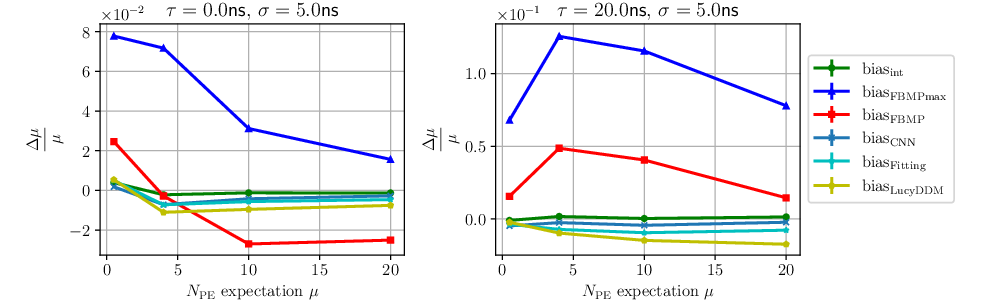
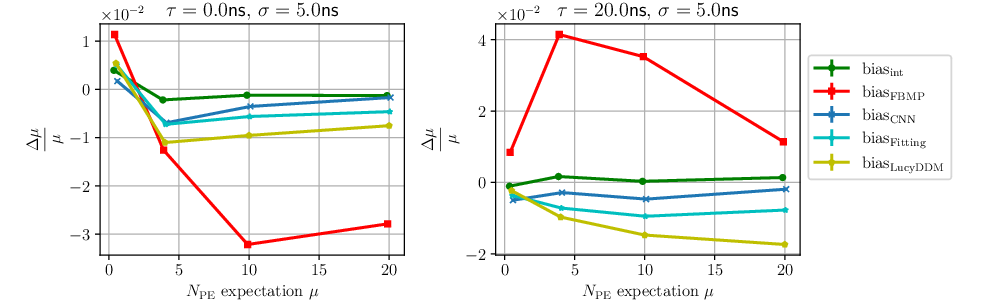
Add several updated test in note

diff --git a/note/main.tex b/note/main.tex
@@ -535,6 +535,92 @@ Result: there is \textbf{no} bias on this configuration
     \includegraphics[width=0.5\textwidth]{toybias.png}
 \end{figure}
 
+\subsection{$N_{PE}$ ergodic estimation based on toy simulation}
+
+\begin{lstlisting}
+spemode = 'spe'
+# spemode = 'delta'
+# spemode = 'flat'
+prior = False
+plot = False
+
+n = 500
+gmu = 160.
+gsigma = gmu / 4
+window = 200
+npe = 3
+assert window > npe
+
+def spe(t, mode='spe'):
+    if mode == 'spe':
+        return wff.spe((t + np.abs(t)) / 2, p[0], p[1], p[2])
+    elif mode == 'delta':
+        return np.where(t == 0, gmu, 0)
+    elif mode == 'flat':
+        return np.ones_like(t) / window * gmu
+
+noi = True
+if noi:
+    std = 1
+else:
+    std = 1e-4
+np.random.seed(0)
+wdtp = np.dtype([('No', np.uint32), ('Waveform', np.float, window)])
+waves = np.empty(n).astype(wdtp)
+
+tlist = np.arange(npe)
+
+p = spe_pre[0]['parameters']
+sams = [np.vstack((tlist, wff.charge(npe, gmu=gmu, gsigma=gsigma, thres=0))).T for i in range(n)]
+pan = np.arange(window)
+for i in tqdm(range(n)):
+#     wave = np.sum([np.where(pan >= sams[i][j, 0], spe(pan - sams[i][j, 0], mode=spemode) * sams[i][j, 1] / gmu, 0) for j in range(len(sams[i]))], axis=0)
+    wave = np.sum([spe(pan - sams[i][j, 0], mode=spemode) * sams[i][j, 1] / gmu for j in range(len(sams[i]))], axis=0)
+    if noi:
+        wave = wave + np.random.normal(0, std, size=window)
+    waves[i]['Waveform'] = wave
+waves['No'] = np.arange(n).astype(np.uint32)
+sdtp = np.dtype([('No', np.uint32), ('HitPosInWindow', np.float64), ('Charge', np.float64)])
+pelist = np.empty(sum([len(sams[i]) for i in range(n)])).astype(sdtp)
+pelist['No'] = np.repeat(np.arange(n), [len(sams[i]) for i in range(n)]).astype(np.uint32)
+pelist['HitPosInWindow'] = np.hstack([sams[i][:, 0] for i in range(n)])
+pelist['Charge'] = np.hstack([sams[i][:, 1] for i in range(n)])
+
+# npe = 3
+aver_npe = np.empty(n)
+for i in tqdm(range(n)):
+    wave = waves[i]['Waveform'].astype(np.float64)[:window] * spe_pre[0]['epulse']
+    truth = pelist[pelist['No'] == waves[i]['No']]
+    tlist = np.unique(truth['HitPosInWindow'])
+
+    t_auto = np.arange(window)[:, None] - tlist
+    A = spe(t_auto, spemode)
+    mu_t = npe
+    factor = np.sqrt(np.diag(np.matmul(A.T, A)))
+    A = A / factor
+    la = mu_t * np.ones_like(tlist) / len(tlist)
+    
+    samnum = int(10 ** 3)
+    ind = np.array([[i // 100, i // 10 % 10, i % 10] for i in range(samnum)])
+    nu = np.empty(samnum)
+    for j in range(samnum):
+        nu[j] = wff.nu_direct(wave, A, ind[j], factor, (gsigma * factor / gmu) ** 2, std ** 2, la, prior=prior)
+        nu[j] = nu[j] + poisson.logpmf(ind[j], mu=la).sum()
+    prob = np.exp(nu - nu.max()) / np.sum(np.exp(nu - nu.max()))
+    aver_npe[i] = np.average(ind.sum(axis=1), weights=prob)
+\end{lstlisting}
+
+Motivation: see the estimation of $N_{PE}$ when ergodic in model space
+
+Progress: there is no $\mu$, set $N_{PE}$ as 3, set \textit{tlist} to $[0, 1, 2]$. Use ergodic process to generate posterior distribution of $N_{PE}$. 
+
+Result: there is \textbf{still} bias on this configuration
+
+\begin{figure}[H]
+    \centering
+    \includegraphics[width=0.5\textwidth]{ergodic.png}
+\end{figure}
+
 \subsection{Influence of lucyddm \texttt{tlist} initialization on $\mu$ bias}
 
 \begin{lstlisting}
@@ -1213,11 +1299,8 @@ def fbmpr_fxn_reduced(y, A, sig2w, sig2s, mus, D, p1, stop=0, truth=None, i=None
 prior = False
 nsp = 4
 nstd = 3
-
 cid = ent[i]['ChannelID']
 wave = ent[i]['Waveform'].astype(np.float64) * spe_pre[cid]['epulse']
-
-# initialization
 mu_t = abs(wave.sum() / gmu)
 n = 5
 A, wave_r, tlist, t0_t, t0_delta, cha, left_wave, right_wave = wff.initial_params(wave[::wff.nshannon], spe_pre[ent[i]['ChannelID']], Tau, Sigma, gmu, Thres['lucyddm'], p, nsp, nstd, is_t0=True, is_delta=False, n=n, nshannon=1)
@@ -1244,6 +1327,7 @@ def optit0mu(t0, mu, n, psy_star, c_star, la):
     mu, t0 = opti.fmin_l_bfgs_b(likelihood, x0=[mulist[likemu.argmin()], t0list[liket0.argmin()]], approx_grad=True, bounds=[b_mu, b_t0], maxfun=50000)[0]
     return mu, t0
 
+truth = pelist[pelist['TriggerNo'] == ent[i]['TriggerNo']]
 # 1st FBMP
 time_fbmp_start = time.time()
 # Eq. (9) where the columns of A are taken to be unit-norm.
@@ -1262,9 +1346,26 @@ la_truth = len(truth) * wff.convolve_exp_norm(tlist - t0_truth[i]['T0'], Tau, Si
 if prior:
     nu_star_prior = nu_star - poisson.logpmf(c_star, mu=la).sum(axis=1)
 nu_star_prior = nu_star + poisson.logpmf(c_star, mu=la_truth).sum(axis=1)
-maxindex = psy_star.argmax()
 
-xmmse_most = xmmse_star[maxindex]
+nx = np.sum([(tlist - 0.5 / n <= truth['HitPosInWindow'][j]) * (tlist + 0.5 / n > truth['HitPosInWindow'][j]) for j in range(len(truth))], axis=0)
+cc = np.sum([np.where(tlist - 0.5 / n < truth['HitPosInWindow'][j], np.sqrt(truth['Charge'][j]), 0) * np.where(tlist + 0.5 / n > truth['HitPosInWindow'][j], np.sqrt(truth['Charge'][j]), 0) for j in range(len(truth))], axis=0)
+c_star_truth = np.sum([np.where(tlist - 0.5 / n < truth['HitPosInWindow'][j], 1, 0) * np.where(tlist + 0.5 / n > truth['HitPosInWindow'][j], 1, 0) for j in range(len(truth))], axis=0)
+if c_star_truth.sum() == 0:
+    c_star_truth[0] = 1
+pp = np.arange(left_wave, right_wave)
+wav_ans = np.sum([np.where(pp > truth['HitPosInWindow'][j], wff.spe(pp - truth['HitPosInWindow'][j], tau=p[0], sigma=p[1], A=p[2]) * truth['Charge'][j] / gmu, 0) for j in range(len(truth))], axis=0)
+nu_truth[i - a0] = wff.nu_direct(wave_r, A, nx, factor, (gsigma * factor / gmu) ** 2, spe_pre[cid]['std'] ** 2, la, prior=prior)
+rss_truth = np.power(wav_ans - np.matmul(A, cc / gmu * factor), 2).sum()
+nu = np.array([wff.nu_direct(wave_r, A, c_star[j], factor, (gsigma * factor / gmu) ** 2, spe_pre[cid]['std'] ** 2, la, prior=prior) for j in range(len(psy_star))])
+nu_star_prior = np.array([wff.nu_direct(wave_r, A, c_star[j], factor, (gsigma * factor / gmu) ** 2, spe_pre[cid]['std'] ** 2, la_truth, prior=True) for j in range(len(psy_star))])
+psy_star = np.exp(nu - nu.max()) / np.sum(np.exp(nu - nu.max()))
+# assert abs(nu - nu_star).max() < 1e-6
+nu_max[i - a0] = nu[0]
+rss = np.array([np.power(wav_ans - np.matmul(A, xmmse_star[j]), 2).sum() for j in range(len(psy_star))])
+
+nu_re = np.array([wff.nu_direct(wave_r, A, c_star[j], factor, (gsigma * factor / gmu) ** 2, spe_pre[cid]['std'] ** 2, la, prior=True) for j in range(len(psy_star))])
+maxindex = nu_re.argmax()
+xmmse_most = np.clip(xmmse_star[maxindex], 0, np.inf)
 pet = np.repeat(tlist[xmmse_most > 0], c_star[maxindex][xmmse_most > 0])
 cha = np.repeat(xmmse_most[xmmse_most > 0] / factor[xmmse_most > 0] / c_star[maxindex][xmmse_most > 0], c_star[maxindex][xmmse_most > 0])
 
@@ -1282,7 +1383,7 @@ Result: $\mu$ bias persists.
     \includegraphics[width=\textwidth]{vs-biasmu-nospacenoprior.png}
 \end{figure}
 
-\subsection{P-FBMP \textbf{without} prior and \textbf{with} Gaussian normalization term}
+\subsection{P-FBMP \textbf{with} prior and \textbf{without} Gaussian normalization term}
 
 P-FBMP:
 
@@ -1290,11 +1391,9 @@ P-FBMP:
 prior = True
 nsp = 4
 nstd = 3
-
 cid = ent[i]['ChannelID']
 wave = ent[i]['Waveform'].astype(np.float64) * spe_pre[cid]['epulse']
 
-# initialization
 mu_t = abs(wave.sum() / gmu)
 n = 5
 A, wave_r, tlist, t0_t, t0_delta, cha, left_wave, right_wave = wff.initial_params(wave[::wff.nshannon], spe_pre[ent[i]['ChannelID']], Tau, Sigma, gmu, Thres['lucyddm'], p, nsp, nstd, is_t0=True, is_delta=False, n=n, nshannon=1)
@@ -1321,6 +1420,7 @@ def optit0mu(t0, mu, n, psy_star, c_star, la):
     mu, t0 = opti.fmin_l_bfgs_b(likelihood, x0=[mulist[likemu.argmin()], t0list[liket0.argmin()]], approx_grad=True, bounds=[b_mu, b_t0], maxfun=50000)[0]
     return mu, t0
 
+truth = pelist[pelist['TriggerNo'] == ent[i]['TriggerNo']]
 # 1st FBMP
 time_fbmp_start = time.time()
 # Eq. (9) where the columns of A are taken to be unit-norm.
@@ -1339,9 +1439,26 @@ la_truth = len(truth) * wff.convolve_exp_norm(tlist - t0_truth[i]['T0'], Tau, Si
 if prior:
     nu_star_prior = nu_star - poisson.logpmf(c_star, mu=la).sum(axis=1)
 nu_star_prior = nu_star + poisson.logpmf(c_star, mu=la_truth).sum(axis=1)
-maxindex = psy_star.argmax()
 
-xmmse_most = xmmse_star[maxindex]
+nx = np.sum([(tlist - 0.5 / n <= truth['HitPosInWindow'][j]) * (tlist + 0.5 / n > truth['HitPosInWindow'][j]) for j in range(len(truth))], axis=0)
+cc = np.sum([np.where(tlist - 0.5 / n < truth['HitPosInWindow'][j], np.sqrt(truth['Charge'][j]), 0) * np.where(tlist + 0.5 / n > truth['HitPosInWindow'][j], np.sqrt(truth['Charge'][j]), 0) for j in range(len(truth))], axis=0)
+c_star_truth = np.sum([np.where(tlist - 0.5 / n < truth['HitPosInWindow'][j], 1, 0) * np.where(tlist + 0.5 / n > truth['HitPosInWindow'][j], 1, 0) for j in range(len(truth))], axis=0)
+if c_star_truth.sum() == 0:
+    c_star_truth[0] = 1
+pp = np.arange(left_wave, right_wave)
+wav_ans = np.sum([np.where(pp > truth['HitPosInWindow'][j], wff.spe(pp - truth['HitPosInWindow'][j], tau=p[0], sigma=p[1], A=p[2]) * truth['Charge'][j] / gmu, 0) for j in range(len(truth))], axis=0)
+nu_truth[i - a0] = wff.nu_direct(wave_r, A, nx, factor, (gsigma * factor / gmu) ** 2, spe_pre[cid]['std'] ** 2, la, prior=prior)
+rss_truth = np.power(wav_ans - np.matmul(A, cc / gmu * factor), 2).sum()
+nu = np.array([wff.nu_direct(wave_r, A, c_star[j], factor, (gsigma * factor / gmu) ** 2, spe_pre[cid]['std'] ** 2, la, prior=prior) for j in range(len(psy_star))])
+nu_star_prior = np.array([wff.nu_direct(wave_r, A, c_star[j], factor, (gsigma * factor / gmu) ** 2, spe_pre[cid]['std'] ** 2, la_truth, prior=True) for j in range(len(psy_star))])
+psy_star = np.exp(nu - nu.max()) / np.sum(np.exp(nu - nu.max()))
+# assert abs(nu - nu_star).max() < 1e-6
+nu_max[i - a0] = nu[0]
+rss = np.array([np.power(wav_ans - np.matmul(A, xmmse_star[j]), 2).sum() for j in range(len(psy_star))])
+
+nu_re = np.array([wff.nu_direct(wave_r, A, c_star[j], factor, (gsigma * factor / gmu) ** 2, spe_pre[cid]['std'] ** 2, la, prior=True) for j in range(len(psy_star))])
+maxindex = nu_re.argmax()
+xmmse_most = np.clip(xmmse_star[maxindex], 0, np.inf)
 pet = np.repeat(tlist[xmmse_most > 0], c_star[maxindex][xmmse_most > 0])
 cha = np.repeat(xmmse_most[xmmse_most > 0] / factor[xmmse_most > 0] / c_star[maxindex][xmmse_most > 0], c_star[maxindex][xmmse_most > 0])
 
